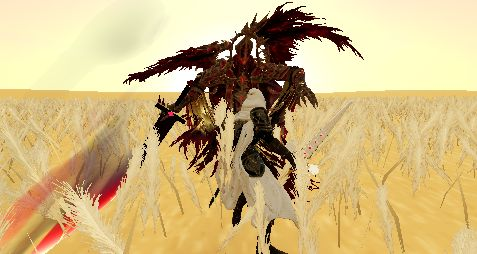
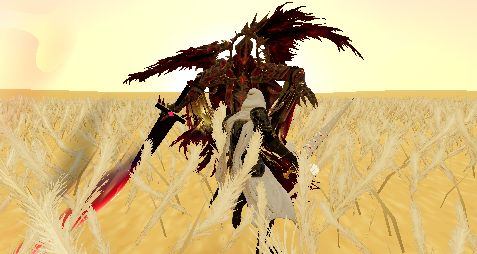
Reduz erro máximo da lâmina de 37 cm a 2,4 cm nas poses de contato

diff --git a/vhazrael3d.js b/vhazrael3d.js
@@ -57,9 +57,8 @@ export const VZ_HP = 2600, VZ_PHASES = [.7, .4, .15];
 /** Mod 320: o golpe do herói pesa 1,6× no VHAZRAEL — vida 4× maior sem virar desgaste (tempo de luta ≈ 2,5× o antigo, com herói 5× mais resistente). */
 export const VZ_HERO_DMG = 1.6;
 export const vzPhaseOf = (hp, max) => { const k = hp / Math.max(1, max); return k > VZ_PHASES[0] ? 0 : k > VZ_PHASES[1] ? 1 : k > VZ_PHASES[2] ? 2 : 3; };
-/** Duplo salto REAL (motor da esquadra: 2 impulsos, dash aéreo travado no alvo, corte descendente no pouso). */
+/** Salto ofensivo com destino anunciado, breve suspensão e impacto único no pouso. */
 export const VZ_LEAP = Object.freeze({ min: 3.4, max: 9, crouch: .46, height: 5.4, rise: .76, hover: .18, fall: .38, maxAir: 1.32, strike: { r: 2.1, dmg: 16, arc: -.3 }, recover: .55, cd: 7.5, role: 'jump', from: 1.45, speed: 1.2 });
-/** Dash: recarga de 0,5 s, mas com orçamento (no máximo 3 em 2,5 s) e compromisso — nunca vira teleporte em série. */
 // The announced destination is a safe point on the launch corridor. Stop short
 // of the player's capsule; dodging after the announcement never moves the seal.
 function judgment(sq, a, act, target, dt) {
@@ -99,6 +98,7 @@ function judgment(sq, a, act, target, dt) {
     sq.event('meleeHit',{actor:a,target:t.id,result,n:1,move:'salto'});
   }
 }
+/** Até três dashes na janela, incluindo o flanco que encerra a sequência. */
 export const VZ_DASH = Object.freeze({ speed: 13, time: .24, cd: .5, budget: 3, window: 2.5, lockout: 1.3 });
 /** Proporção de decisões ofensivas: a magia é pontuação de ritmo (alvo 25–40 % das últimas 12 decisões). */
 export const VZ_MIX = Object.freeze({ window: 12, maxSpell: .34, minSpellGap: 6 });

diff --git a/mundo-3d-prototype.js b/mundo-3d-prototype.js
@@ -4468,6 +4468,12 @@ function squadEvent(type,d){
  const a=d&&d.actor,s=d&&d.spell;vzAuditEvent(type,d);
  switch(type){
   case 'windup':if(a?.kind==='vhazrael'){const m=a.act?.move,r=m?.rate||1;if(d.label)status.textContent=d.label;setTimeout(()=>worldAudio.bossSwing&&worldAudio.bossSwing(!!m?.heavy),Math.max(0,(d.at||0)/r*1000-60));} /* áudio: o "vush" da espada cai no corte, não no início do gesto */else if(d.label&&a?.T.boss){status.textContent=d.label;worldAudio.whoosh();}break;
+  case 'leapStrike':
+   if(a?.kind==='vhazrael' && d.mark && !userSettings.reduceShake){
+    const distance=Math.hypot(player.position.x-d.mark.x,player.position.z-d.mark.z);
+    if(distance<8)cameraShake(.09*(1-distance/8));
+   }
+   break;
   case 'meleeHit':if(d.result==='hit'){if(a?.kind==='vhazrael'&&worldAudio.bossHit)worldAudio.bossHit();else worldAudio.hit();if(d.target==='hero')hitStop(a?.kind==='e2boss'?45:25);}break;
   case 'cast':if(worldAudio.abyss3&&/^(nadir|barrage|singularity|sanctum|constellation|drill|cage)$/.test(d.skill))worldAudio.abyss3(d.skill==='singularity'||d.skill==='constellation'?'gravity':d.skill==='nadir'||d.skill==='sanctum'?'storm':'tear',squadGain(a.x,a.z));else worldAudio.dark&&worldAudio.dark(d.skill);if(a.T.boss||squadAlive().length<=2||d.skill==='judgment'||d.skill==='vortex'||d.skill==='nadir'||d.skill==='cage')showCombatCallout(SQUAD_NAMES[d.skill]);break;
   case 'thornWave':squadSfx('warn',0,0,150);break;

diff --git a/vhazrael-rig3d.js b/vhazrael-rig3d.js
@@ -72,7 +72,7 @@ export function calibrateGrip(T, model, clone, idleClip) {
 }
 
 /**
- * Clipes dos golpes nativos + traço da lâmina amostrado do MESMO clipe (30 Hz), no espaço do ator (origem no chão,
+ * Clipes dos golpes nativos + traço da lâmina amostrado do MESMO clipe (120 Hz, calculado uma vez por modelo), no espaço do ator (origem no chão,
  * frente +Z), no formato que bossTraceContact já consome. clipFor(role) → AnimationClip in-place.
  */
 export function nativeMoveClips(T, model, clone, clipFor, moves, grip, blade = [[0, .15, 0], [0, 1.55, 0]]) {
@@ -81,7 +81,7 @@ export function nativeMoveClips(T, model, clone, clipFor, moves, grip, blade = [
   const out = {}, p = new T.Vector3(), q = new T.Quaternion();
   for (const m of moves) {
     const src = clipFor(m.clip); if (!src || !hand) continue;
-    const clip = src.clone(); clip.name = m.id; const frames = [], N = Math.ceil(m.duration * 30);
+    const clip = src.clone(); clip.name = m.id; const frames = [], N = Math.ceil(m.duration * 120);
     mixer.stopAllAction(); const a = mixer.clipAction(clip); a.play();
     for (let i = 0; i <= N; i++) {
       mixer.setTime(Math.min(m.duration * i / N, clip.duration - 1e-3)); rig.updateMatrixWorld(true);
